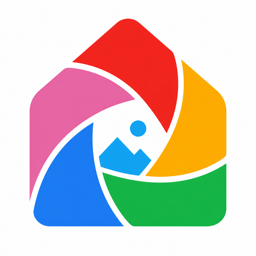
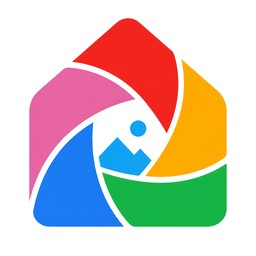
Release v0.1.3 transparent branding fix (#12)

diff --git a/tests/test_hacs_metadata.py b/tests/test_hacs_metadata.py
@@ -31,6 +31,15 @@ def _png_dimensions(path: Path) -> tuple[int, int]:
     return struct.unpack(">II", content[16:24])
 
 
+def _png_color_type(path: Path) -> int:
+    """Return the PNG color type from the IHDR chunk."""
+    content = path.read_bytes()
+
+    assert content.startswith(PNG_SIGNATURE)
+    assert content[12:16] == b"IHDR"
+    return content[25]
+
+
 def test_repository_contains_one_integration() -> None:
     """HACS integration repositories must contain exactly one component."""
     integrations = sorted(
@@ -64,6 +73,8 @@ def test_local_brand_icons_have_required_png_dimensions() -> None:
 
     assert _png_dimensions(brand / "icon.png") == (256, 256)
     assert _png_dimensions(brand / "icon@2x.png") == (512, 512)
+    assert _png_color_type(brand / "icon.png") == 6
+    assert _png_color_type(brand / "icon@2x.png") == 6
     assert (brand / "icon.png").read_bytes() == (ASSETS / "icon-256.png").read_bytes()
     assert (brand / "icon@2x.png").read_bytes() == (
         ASSETS / "icon-512.png"
@@ -80,6 +91,7 @@ def test_project_logo_assets_have_expected_dimensions() -> None:
 
     for filename, dimensions in expected_pngs.items():
         assert _png_dimensions(ASSETS / filename) == dimensions
+        assert _png_color_type(ASSETS / filename) == 6
 
 
 def test_validation_workflow_has_hacs_and_hassfest_without_ignores() -> None:

diff --git a/CHANGELOG.md b/CHANGELOG.md
@@ -7,6 +7,13 @@ and the project uses semantic versioning.
 
 ## [Unreleased]
 
+## [0.1.3] - 2026-08-02
+
+### Fixed
+
+- Export the repository logo and bundled Home Assistant/HACS icons as RGBA PNGs,
+  removing both the exterior background and every neutral-white separator.
+
 ## [0.1.2] - 2026-08-02
 
 ### Changed
@@ -69,7 +76,8 @@ and the project uses semantic versioning.
   with documented upstream source, hash, and trademark exclusion; no banner
   or wide wordmark is included.
 
-[Unreleased]: https://github.com/ofilis/ha-immich-gallery/compare/v0.1.2...HEAD
+[Unreleased]: https://github.com/ofilis/ha-immich-gallery/compare/v0.1.3...HEAD
+[0.1.3]: https://github.com/ofilis/ha-immich-gallery/compare/v0.1.2...v0.1.3
 [0.1.2]: https://github.com/ofilis/ha-immich-gallery/compare/v0.1.1...v0.1.2
 [0.1.1]: https://github.com/ofilis/ha-immich-gallery/compare/v0.1.0...v0.1.1
 [0.1.0]: https://github.com/ofilis/ha-immich-gallery/releases/tag/v0.1.0

diff --git a/docs/releases/v0.1.3.md b/docs/releases/v0.1.3.md
@@ -1,0 +1,20 @@
+# Immich Gallery 0.1.3
+
+This patch corrects the transparency of the Immich Gallery logo introduced in
+0.1.2.
+
+## Transparent branding
+
+- Converts the repository logo and bundled 256 × 256 and 512 × 512 icons to
+  true RGBA PNG files.
+- Removes the exterior white background and every internal neutral-white
+  separator, leaving only the colored logo artwork visible.
+- Keeps the repository icon sources byte-identical to the local Home Assistant
+  brand files.
+- Adds regression checks that require an alpha channel on every published PNG.
+
+## Compatibility
+
+- Requires Home Assistant 2026.4 or newer.
+- No configuration migration is required from 0.1.2.
+- Runtime gallery behavior is unchanged.

diff --git a/BRANDING.md b/BRANDING.md
@@ -20,7 +20,9 @@ owners. References to them describe compatibility and project purpose.
 
 ## Included files
 
-The repository uses one logo with the PNG sizes required by each surface:
+The repository uses one logo with transparent RGBA PNG sizes required by each
+surface. Only the colored logo artwork remains visible; exterior and internal
+neutral-white areas are transparent.
 
 - `assets/logo.png`: README header artwork
 - `assets/icon-256.png`: 256 × 256 icon source
